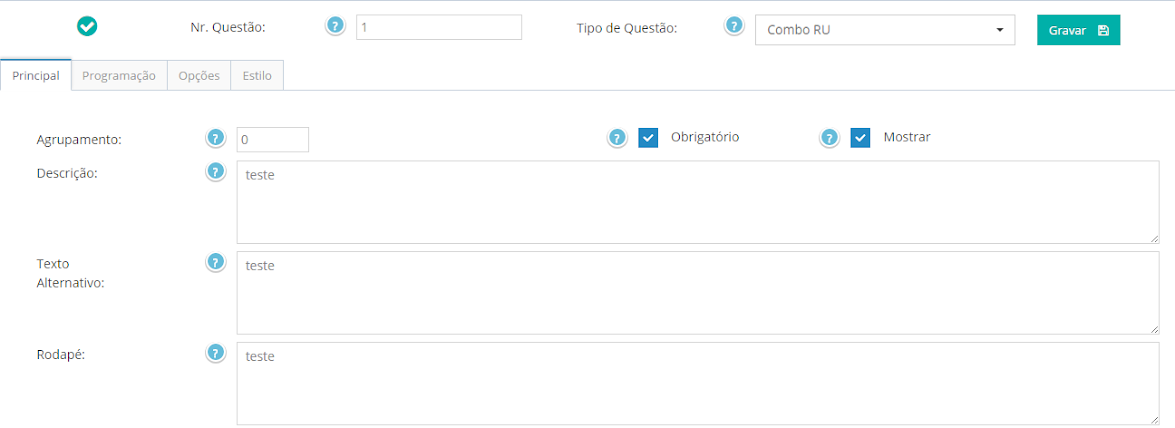
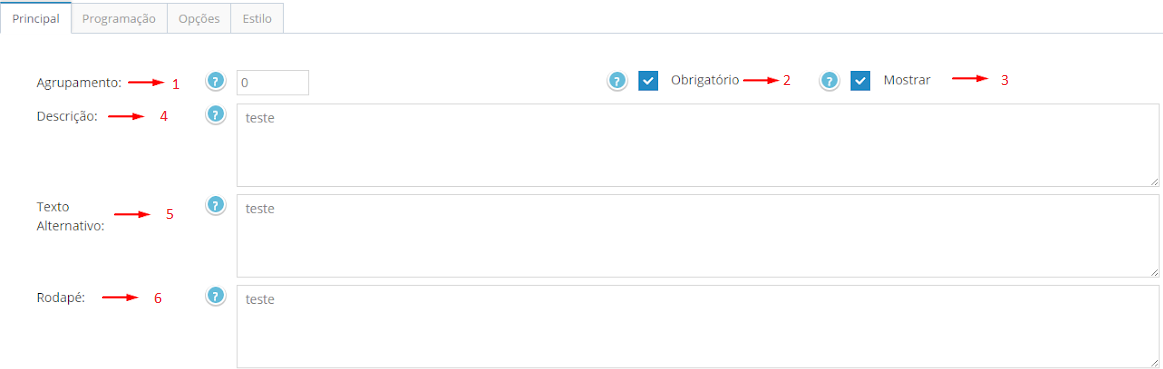
Atualizando imagens do questionário

diff --git a/_posts/2018-06-18-tipo-questao-combo-ru.md b/_posts/2018-06-18-tipo-questao-combo-ru.md
@@ -7,24 +7,32 @@ pasta: "Questionario"
 ---
 # Tipo Questão Combo RU e RM
 
-*"Menu"* principal
-- Obrigatório: Exige uma resposta para a questão;
-- Mostrar: Indica se a questão será exibida na página ou não;
-- Agrupamento: Utilizado para rodiziar as questões;
-- Descrição;
-- Texto alternativo;
-- Rodapé.
+----
+
+## *"Menu"* principal
 
 ![Imagem de apoio 1]({{ "/assets/img/tipo-questao-combo-ru-01.png" | prepend: site.baseurl }})
 
-*"Menu"* opções
+1. Agrupamento: Utilizado para rodiziar as questões;
+2. Obrigatório: Exige uma resposta para a questão;
+3. Mostrar: Indica se a questão será exibida na página ou não;
+4. Descrição;
+5. Texto alternativo;
+6. Rodapé.
+
+----
+
+## *"Menu"* opções
 **Criar nova opção.**
-- Opção: Indica o valor da opção selecionada;
-- Agrupamento: Utilizado para rodiziar as questões;
-- Mostrar: Indica se a opção será exibida;
-- Descrição: Texto que aparece na opção.
 
 ![Imagem de apoio 2]({{ "/assets/img/tipo-questao-combo-ru-02.png" | prepend: site.baseurl }})
+
+1. Opção: Indica o valor da opção selecionada;
+2. Mostrar: Indica se a opção será exibida;
+3. Agrupamento: Utilizado para rodiziar as questões;
+4. Descrição: Texto que aparece na opção.
+
+----
 
 **Base de Opções Alternativa**
 
